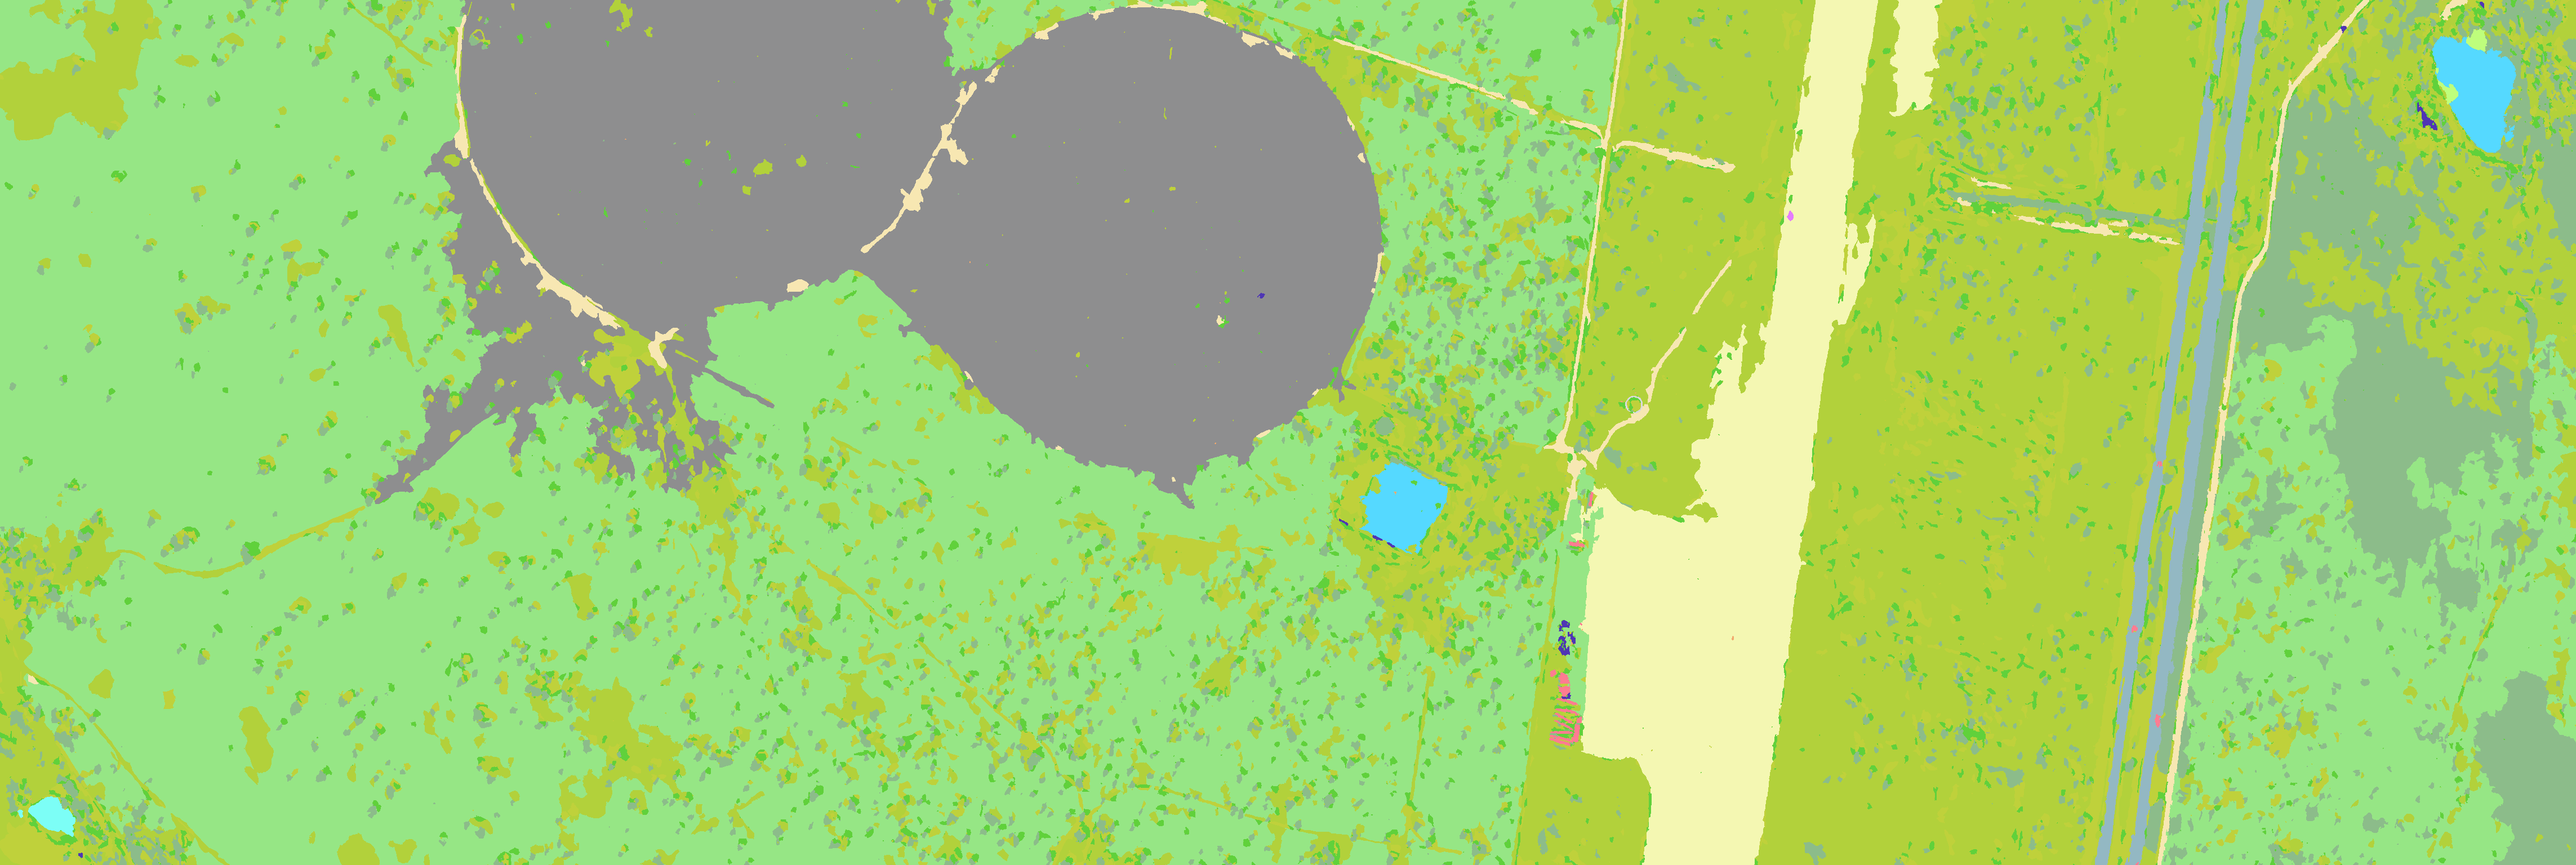
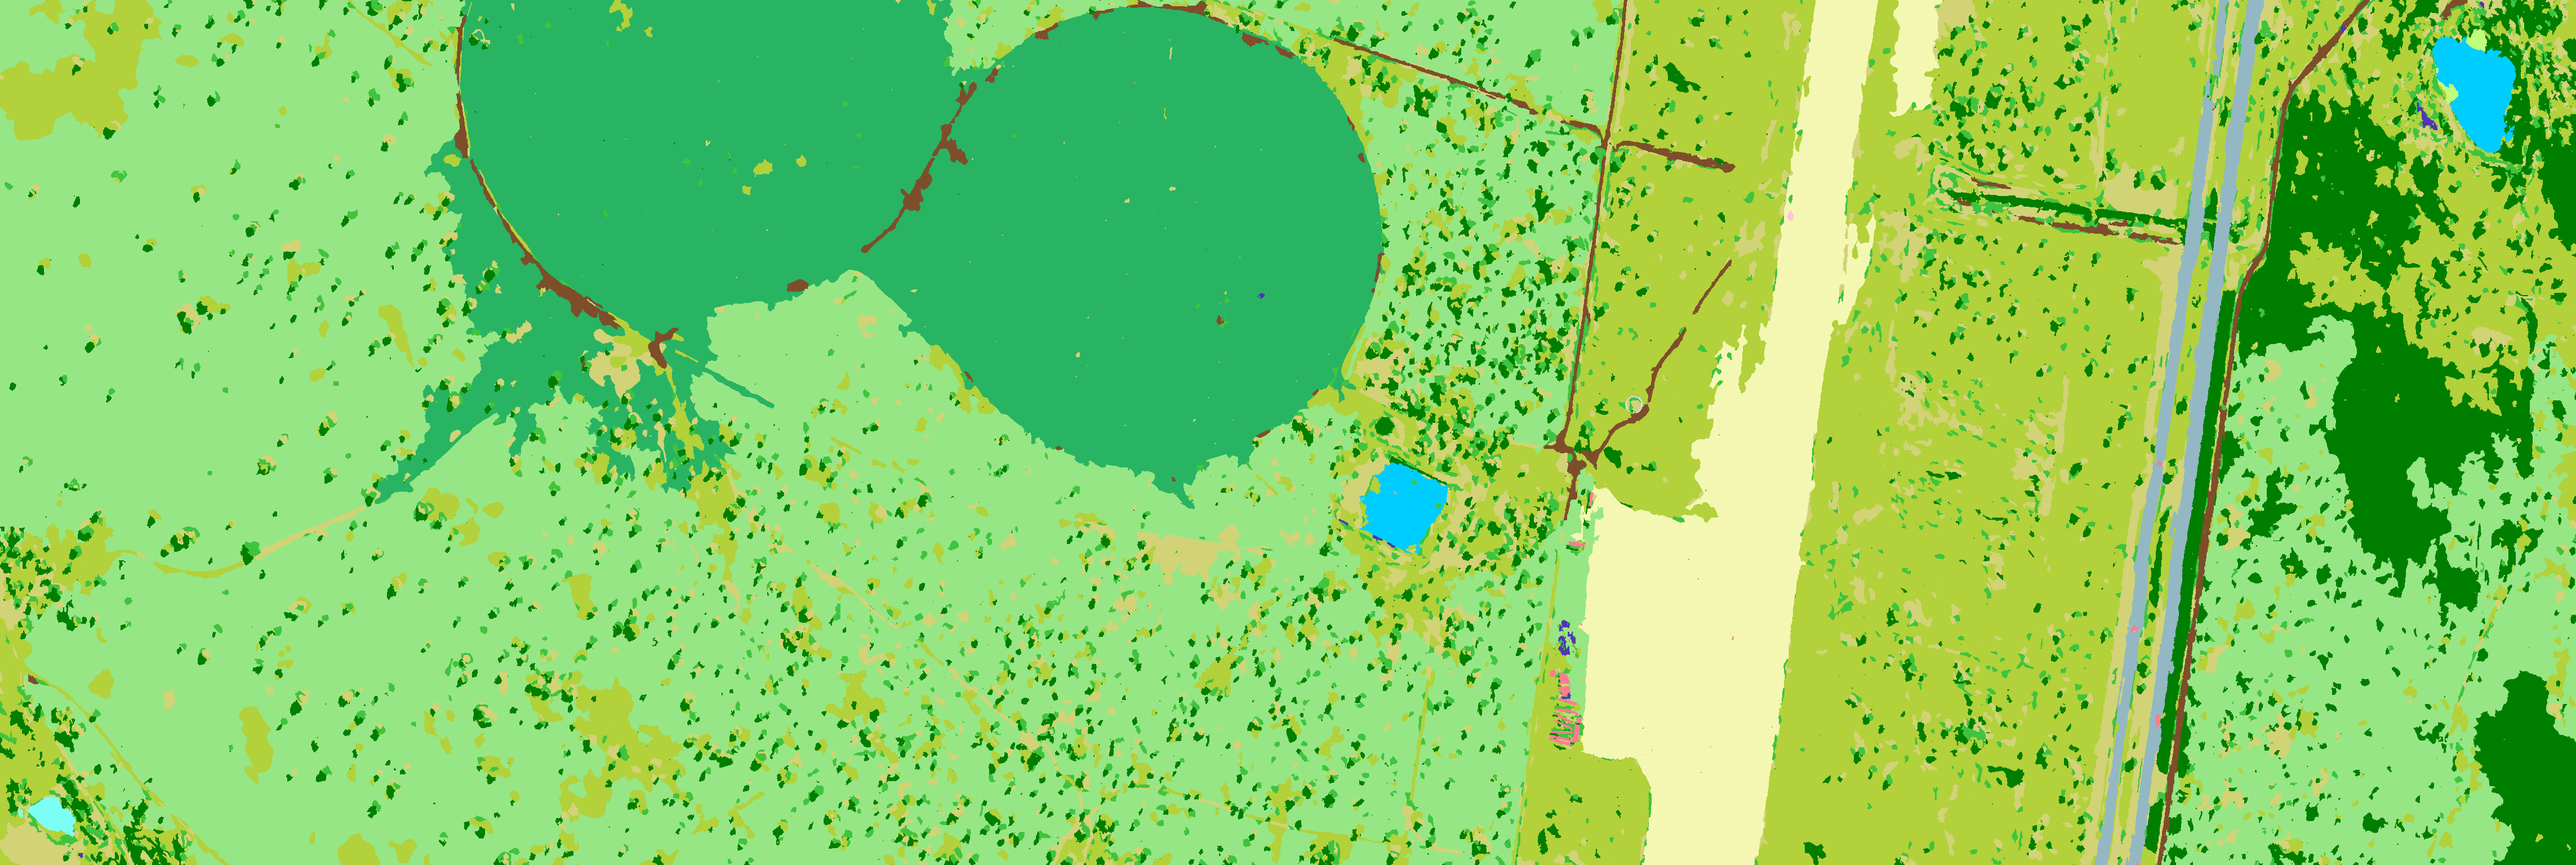
updated thematic for better colour legend

diff --git a/thematic-map/themeplot.py b/thematic-map/themeplot.py
@@ -128,38 +128,6 @@ def readParameters(pfilename):
 
 
 #################################################################
-# to see a plan view of the target area
-def plotTheColmap(thmapcol,thmapcolN,pfilename):
-    """
-    """
-    mapfilename = pfilename.replace('.parameters','-cmap.png')
-    if mapfilename == pfilename :
-        print('check thematic parameters file type: expected *.bmp')
-        exit()
-
-    pthemes = readParameters(pfilename)
-    numgrid = int(np.sqrt(len(thmapcolN.keys()))+1)
-
-    blocksize = 1.
-    fig = plt.figure(figsize=(10,10), dpi=150,)
-    ax = fig.add_subplot(1, 1, 1)
-    for ik,key in enumerate(pthemes.keys()):
-        x = ik % numgrid
-        y = (ik - ik % numgrid) / numgrid
-
-        p = Rectangle((blocksize*x ,blocksize*y), blocksize,blocksize,color=thmapcolN[key],alpha=1)
-        ax.add_patch(p)        
-
-        ax.text(x+blocksize/2, y+(0.5 + 0.2) * blocksize, f'{key}',horizontalalignment='center',fontsize=7)
-        ax.text(x+blocksize/2, y+(0.5) * blocksize, f'{pthemes[key]}',horizontalalignment='center',fontsize=7)
-        ax.text(x+blocksize/2, y+(0.5-0.2) * blocksize, f'{thmapcol[key]}',horizontalalignment='center',fontsize=7)
-
-    ax.set_xlim(0,numgrid*blocksize)
-    ax.set_ylim(0,numgrid*blocksize)
-    plt.savefig(mapfilename,dpi=300)
-
-
-#################################################################
 def makeColourImg(thmapcol,filename,pfilename, scaledown=1):
 
     theimgT = imageio.imread(filename)
@@ -207,6 +175,41 @@ def makeColourImg(thmapcol,filename,pfilename, scaledown=1):
             colimg[row,col,:] =  thmapcol[theimg[row,col]]
 
     imageio.imwrite(tfilename,colimg)
+
+
+#################################################################
+# to see a plan view of the target area
+def plotTheColmap(thmapcol,thmapcolN,pfilename):
+    """
+    """
+    mapfilename = pfilename.replace('.parameters','-cmap.png')
+    if mapfilename == pfilename :
+        print('check thematic parameters file type: expected *.bmp')
+        exit()
+
+    pthemes = readParameters(pfilename)
+    xsize = 6
+    maxy = 0
+    fig = plt.figure(figsize=(xsize,0.2*len(pthemes)), dpi=150,)
+    ax = fig.add_subplot(1, 1, 1)
+
+    for ik,key in enumerate(pthemes.keys()):
+        x = 0
+        y = 2 * ik
+        p = Rectangle((x ,y), 0.5,2,color=thmapcolN[key],alpha=1)
+        maxy = y + 2
+        ax.add_patch(p)        
+
+        strCol = ','.join([f'{ist:3d}' for ist in thmapcol[key]])
+        txtline = f'{key:3d} ({strCol}) {pthemes[key]}'
+        ax.text(x+0.55,y+0.2, f'{txtline}',horizontalalignment='left',fontsize='large',
+        family='monospace',weight='light')
+
+    # ax.axis('equal')
+    ax.set_xlim(0,xsize)
+    ax.set_ylim(0,maxy)
+    plt.axis('off')
+    plt.savefig(mapfilename,dpi=300,bbox_inches='tight')
 
 #################################################################
 scaledown = 1
